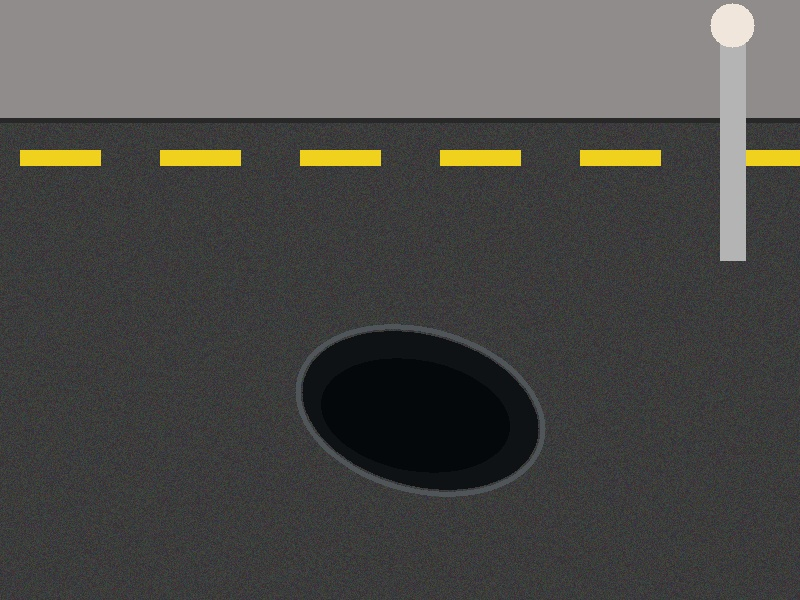
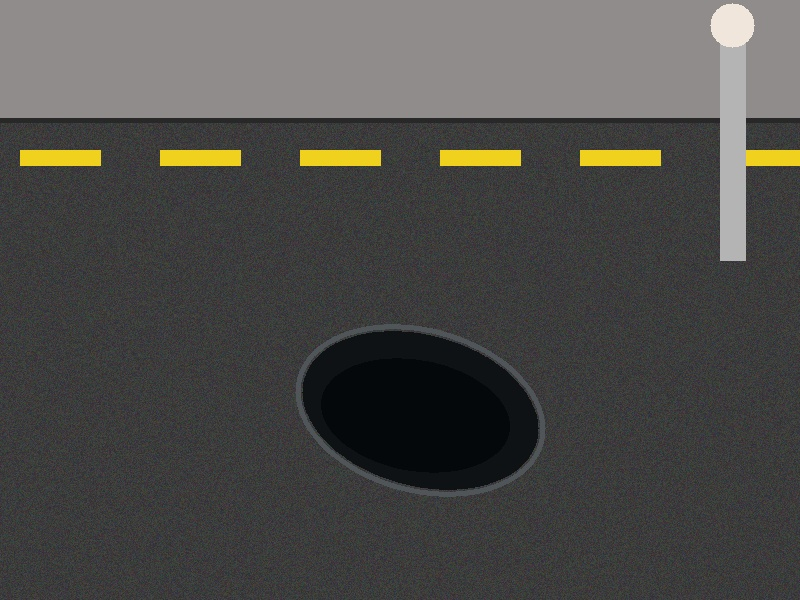
Remove social buttons from UI and add backend WhatsApp Bot webhook connected to database

diff --git a/frontend/src/pages/citizen/CitizenHome.tsx b/frontend/src/pages/citizen/CitizenHome.tsx
@@ -17,7 +17,7 @@ import { useApp } from '@/context/AppContext';
 import { formatDate } from '@/utils/caseUtils';
 
 export const CitizenHome: React.FC = () => {
-  const { cases, submitComplaint, ingestSocialHandler } = useApp();
+  const { cases, submitComplaint } = useApp();
 
   const [reportModalOpen, setReportModalOpen] = useState(false);
   const [reportStep, setReportStep] = useState<number>(1);
@@ -32,32 +32,8 @@ export const CitizenHome: React.FC = () => {
   const [createdCase, setCreatedCase] = useState<any | null>(null);
   const [selectedCase, setSelectedCase] = useState<PotholeCase | null>(null);
   const [submitting, setSubmitting] = useState(false);
-  const [toastMessage, setToastMessage] = useState<string | null>(null);
 
   const fileInputRef = useRef<HTMLInputElement>(null);
-
-  const showToast = (msg: string) => {
-    setToastMessage(msg);
-    setTimeout(() => setToastMessage(null), 4000);
-  };
-
-  const handleSocialSimulate = async (channel: 'WHATSAPP' | 'REDDIT') => {
-    const rawPost =
-      channel === 'REDDIT'
-        ? 'Another tyre ruined near the corner of crossroad 3 and 4 in Bandra West, right past the Starbucks.'
-        : 'Emergency report: Huge crater pothole on Gokhale Road near Plaza Cinema Dadar. Causing bikes to skid.';
-    try {
-      const res = await ingestSocialHandler(rawPost, channel);
-      showToast(
-        `✓ ${channel} post normalized! Case ${res.id} created via Two-Pass NER (Confidence: ${Math.round(
-          (res.ner_analysis?.confidence_score || 0.85) * 100
-        )}%)`
-      );
-    } catch (e: any) {
-      alert(e.message || 'Social ingest failed');
-    }
-  };
-
 
   // Active cases reported by citizens
   const activeCases = cases.filter((c) => c.status !== 'CLOSED');
@@ -121,13 +97,6 @@ export const CitizenHome: React.FC = () => {
 
   return (
     <div className="space-y-5 relative">
-      {toastMessage && (
-        <div className="fixed top-16 right-4 left-4 md:left-auto md:w-96 z-50 bg-[#172033] text-white px-4 py-3 rounded-2xl shadow-2xl text-xs font-semibold flex items-center gap-2 border border-teal-500/40">
-          <CheckCircle2 size={16} className="text-emerald-400 shrink-0" />
-          <span className="leading-snug">{toastMessage}</span>
-        </div>
-      )}
-
       {/* Primary Action Card: Report a Pothole */}
 
       <div className="bg-gradient-to-br from-[#0F766E] to-[#115E59] rounded-2xl p-5 text-white shadow-lg relative overflow-hidden">
@@ -150,31 +119,15 @@ export const CitizenHome: React.FC = () => {
             </p>
           </div>
 
-          <div className="grid grid-cols-3 gap-2 pt-1">
+          <div className="pt-2">
             <Button
               variant="secondary"
-              size="sm"
-              leftIcon={<Camera size={14} className="text-[#0F766E]" />}
+              size="md"
+              leftIcon={<Camera size={16} className="text-[#0F766E]" />}
               onClick={handleOpenReport}
-              className="bg-white text-[#0F766E] hover:bg-slate-50 font-bold border-none shadow-md text-[11px] py-2 px-1"
+              className="bg-white text-[#0F766E] hover:bg-slate-50 font-bold border-none shadow-md text-xs py-2.5 px-6"
             >
-              Citizen App
-            </Button>
-            <Button
-              variant="secondary"
-              size="sm"
-              onClick={() => handleSocialSimulate('WHATSAPP')}
-              className="bg-emerald-800/90 text-white hover:bg-emerald-900 font-bold border border-emerald-500/50 shadow-md text-[11px] py-2 px-1"
-            >
-              💬 WhatsApp
-            </Button>
-            <Button
-              variant="secondary"
-              size="sm"
-              onClick={() => handleSocialSimulate('REDDIT')}
-              className="bg-orange-700/90 text-white hover:bg-orange-800 font-bold border border-orange-500/50 shadow-md text-[11px] py-2 px-1"
-            >
-              🤖 Reddit Bot
+              Report Pothole Now
             </Button>
           </div>
         </div>

diff --git a/backend/app/api/v1/whatsapp_bot.py b/backend/app/api/v1/whatsapp_bot.py
@@ -1,0 +1,198 @@
+import os
+import uuid
+import httpx
+from datetime import datetime
+from fastapi import APIRouter, Request, Response, Depends, Form, HTTPException
+from sqlalchemy.orm import Session
+from typing import Optional
+
+from app.core.database import get_db
+from app.models.case import Case, CaseLocation
+from app.models.evidence import EvidenceFile
+from app.services.social_ingestion import parse_unstructured_social_post
+from app.services.audit_service import log_audit_event
+from app.core.config import settings
+
+router = APIRouter()
+
+# Meta WhatsApp Cloud API Verification Token (can be configured in .env)
+WHATSAPP_VERIFY_TOKEN = os.getenv("WHATSAPP_VERIFY_TOKEN", "civicfix_token_2026")
+WHATSAPP_ACCESS_TOKEN = os.getenv("WHATSAPP_ACCESS_TOKEN", "")
+WHATSAPP_PHONE_NUMBER_ID = os.getenv("WHATSAPP_PHONE_NUMBER_ID", "")
+
+@router.get("/webhook")
+async def verify_whatsapp_webhook(request: Request):
+    """
+    Webhook verification endpoint for Meta WhatsApp Cloud API.
+    Meta sends: hub.mode, hub.verify_token, hub.challenge
+    """
+    params = request.query_params
+    mode = params.get("hub.mode")
+    token = params.get("hub.verify_token")
+    challenge = params.get("hub.challenge")
+
+    if mode and token:
+        if mode == "subscribe" and token == WHATSAPP_VERIFY_TOKEN:
+            return Response(content=challenge, media_type="text/plain")
+        raise HTTPException(status_code=403, detail="Verification token mismatch")
+    return {"status": "WhatsApp Webhook Listener active"}
+
+
+@router.post("/webhook")
+async def receive_meta_whatsapp_webhook(request: Request, db: Session = Depends(get_db)):
+    """
+    Standard Meta WhatsApp Cloud API incoming webhook.
+    Extracts text, sender phone, and media (photos) sent to the bot,
+    runs NER extraction, and writes the case directly to the database.
+    """
+    try:
+        body = await request.json()
+    except Exception:
+        raise HTTPException(status_code=400, detail="Invalid JSON")
+
+    entries = body.get("entry", [])
+    for entry in entries:
+        changes = entry.get("changes", [])
+        for change in changes:
+            value = change.get("value", {})
+            messages = value.get("messages", [])
+            for msg in messages:
+                from_number = msg.get("from", "whatsapp_citizen")
+                msg_type = msg.get("type", "text")
+                text_content = ""
+
+                if msg_type == "text":
+                    text_content = msg.get("text", {}).get("body", "")
+                elif msg_type == "image":
+                    text_content = msg.get("image", {}).get("caption", "Pothole photo sent via WhatsApp")
+
+                if text_content:
+                    # Run 2-pass geocoding NER
+                    loc_data = parse_unstructured_social_post(text_content, channel="WHATSAPP")
+                    
+                    case_id = f"CF-{uuid.uuid4().hex[:6].upper()}"
+                    new_case = Case(
+                        id=case_id,
+                        channel="WHATSAPP",
+                        source_id=f"wa-{from_number}",
+                        citizen_name=f"WhatsApp User (+{from_number})",
+                        description=f"{text_content} [Reported via Personal WhatsApp Bot]",
+                        severity="High" if any(w in text_content.lower() for w in ["deep", "huge", "dangerous", "accident"]) else "Medium",
+                        status="REPORTED",
+                        ward_id=loc_data["ward_id"],
+                        created_at=datetime.utcnow(),
+                    )
+                    db.add(new_case)
+                    db.flush()
+
+                    case_loc = CaseLocation(
+                        case_id=case_id,
+                        address=f"{loc_data['neighborhood']}, Mumbai",
+                        landmark=loc_data["landmark"],
+                        latitude=loc_data["latitude"],
+                        longitude=loc_data["longitude"],
+                    )
+                    db.add(case_loc)
+                    db.commit()
+                    db.refresh(new_case)
+
+                    log_audit_event(
+                        db=db,
+                        action="WHATSAPP_COMPLAINT_RECEIVED",
+                        entity_type="Case",
+                        entity_id=new_case.id,
+                        actor_name=f"WhatsApp (+{from_number})",
+                        actor_role="CITIZEN",
+                        details={
+                            "channel": "WHATSAPP",
+                            "address": loc_data["neighborhood"],
+                            "ward": loc_data["ward_id"],
+                            "phone": from_number,
+                        }
+                    )
+
+                    # Send back automated confirmation message if Meta token provided
+                    if WHATSAPP_ACCESS_TOKEN and WHATSAPP_PHONE_NUMBER_ID:
+                        reply_url = f"https://graph.facebook.com/v19.0/{WHATSAPP_PHONE_NUMBER_ID}/messages"
+                        reply_headers = {
+                            "Authorization": f"Bearer {WHATSAPP_ACCESS_TOKEN}",
+                            "Content-Type": "application/json",
+                        }
+                        reply_payload = {
+                            "messaging_product": "whatsapp",
+                            "to": from_number,
+                            "type": "text",
+                            "text": {
+                                "body": f"✅ Thank you! Your pothole complaint has been registered in CivicFix.\n\n📍 Case ID: {case_id}\n🏛 Ward: {loc_data['ward_id']}\n📌 Landmark: {loc_data['landmark']}\n\nOur ward road contractor will be dispatched soon."
+                            }
+                        }
+                        try:
+                            async with httpx.AsyncClient() as client:
+                                await client.post(reply_url, json=reply_payload, headers=reply_headers, timeout=5.0)
+                        except Exception:
+                            pass
+
+    return {"status": "processed"}
+
+
+@router.post("/twilio-webhook")
+async def receive_twilio_whatsapp_webhook(
+    From: str = Form(...),
+    Body: str = Form(...),
+    Latitude: Optional[float] = Form(None),
+    Longitude: Optional[float] = Form(None),
+    MediaUrl0: Optional[str] = Form(None),
+    db: Session = Depends(get_db)
+):
+    """
+    Twilio WhatsApp Sandbox / Production Webhook.
+    Twilio formats incoming WhatsApp messages as standard form post fields:
+    - From: 'whatsapp:+919876543210'
+    - Body: 'Pothole on Linking Road Bandra'
+    - MediaUrl0: Optional attached image URL
+    - Latitude/Longitude: Optional shared location pin
+    """
+    phone_number = From.replace("whatsapp:", "")
+    loc_data = parse_unstructured_social_post(Body, channel="WHATSAPP")
+
+    # If user sent native WhatsApp location pin, override NER coordinates
+    final_lat = Latitude if Latitude else loc_data["latitude"]
+    final_lng = Longitude if Longitude else loc_data["longitude"]
+
+    case_id = f"CF-{uuid.uuid4().hex[:6].upper()}"
+    new_case = Case(
+        id=case_id,
+        channel="WHATSAPP",
+        source_id=f"wa-{phone_number}",
+        citizen_name=f"WhatsApp Citizen ({phone_number})",
+        description=f"{Body} [Reported via Twilio WhatsApp]",
+        severity="High" if any(w in Body.lower() for w in ["deep", "huge", "dangerous", "accident"]) else "Medium",
+        status="REPORTED",
+        ward_id=loc_data["ward_id"],
+        created_at=datetime.utcnow(),
+    )
+    db.add(new_case)
+    db.flush()
+
+    case_loc = CaseLocation(
+        case_id=case_id,
+        address=f"{loc_data['neighborhood']}, Mumbai",
+        landmark=loc_data["landmark"],
+        latitude=final_lat,
+        longitude=final_lng,
+    )
+    db.add(case_loc)
+    db.commit()
+    db.refresh(new_case)
+
+    # Return Twilio TwiML XML response so WhatsApp sends instant text receipt back to citizen
+    twiml_reply = f"""<?xml version="1.0" encoding="UTF-8"?>
+<Response>
+    <Message>✅ CivicFix Alert: Pothole report received!
+Case ID: {case_id}
+Ward: {loc_data['ward_id'].upper()}
+Location: {loc_data['address']}
+Status: Sent to Municipal Ward Engineer</Message>
+</Response>"""
+
+    return Response(content=twiml_reply, media_type="application/xml")

diff --git a/backend/app/main.py b/backend/app/main.py
@@ -6,7 +6,7 @@ from fastapi.staticfiles import StaticFiles
 
 from app.core.config import settings
 from app.core.database import engine, Base, SessionLocal
-from app.api.v1 import auth, cases, work_orders, evidence, verification, municipal, memos
+from app.api.v1 import auth, cases, work_orders, evidence, verification, municipal, memos, whatsapp_bot
 from app.seed.demo_data import seed_database
 from app.core.multi_db import init_contractor_databases
 
@@ -58,6 +58,7 @@ app.include_router(evidence.router, prefix=f"{settings.API_V1_STR}/evidence", ta
 app.include_router(verification.router, prefix=f"{settings.API_V1_STR}/verification", tags=["AI Verification"])
 app.include_router(municipal.router, prefix=f"{settings.API_V1_STR}/municipal", tags=["Municipal Dashboard"])
 app.include_router(memos.router, prefix=f"{settings.API_V1_STR}/memos", tags=["Expense Memos"])
+app.include_router(whatsapp_bot.router, prefix=f"{settings.API_V1_STR}/whatsapp", tags=["WhatsApp Bot"])
 
 
 @app.get("/")
